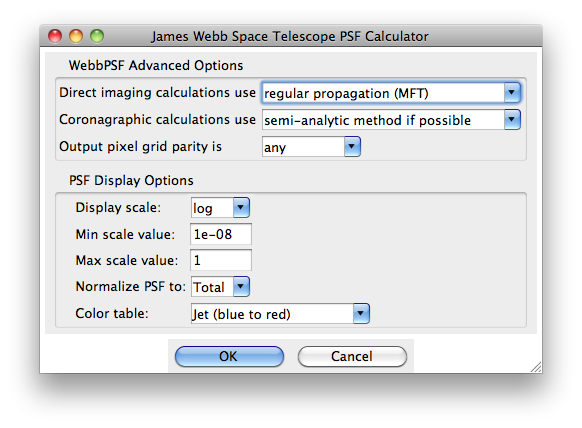
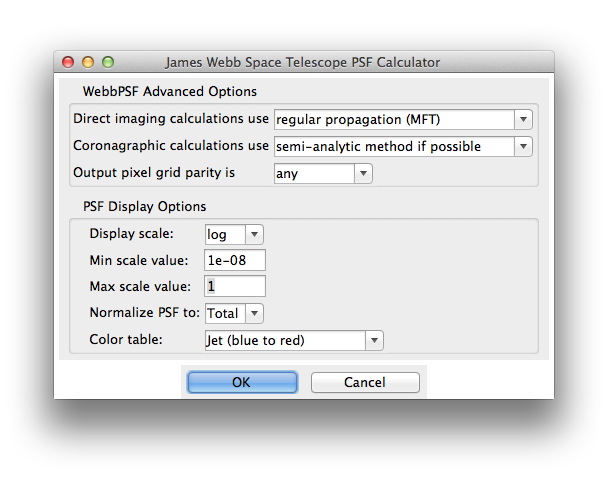
Update screenshots of Tk GUI in docs

Changed region(s): [[0.0619, 0.0304, 0.9588, 0.8808]]

diff --git a/docs/intro.rst b/docs/intro.rst
@@ -1,17 +1,11 @@
-.. JWST-PSFs documentation master file, created by
-   sphinx-quickstart on Mon Nov 29 15:57:01 2010.
-   You can adapt this file completely to your liking, but it should at least
-   contain the root `toctree` directive.
-
-
 Introduction
 ============
 
 
-Conceptually, this simulation code has three layers of abstraction: 
- * A base package for wavefront propagation through generic optical systems (provided by :py:mod:`POPPY <poppy>`).
+Conceptually, this simulation code has three layers of abstraction:
+ * A base package for wavefront propagation through generic optical systems (provided by :py:mod:`POPPY <poppy>`)
  * Models of the JWST instruments implemented on top of that base system (provided by :py:mod:`WebbPSF <webbpsf>`)
- * And an optional :ref:`graphical user interface <gui>`.
+ * An optional :ref:`graphical user interface <gui>`
    
 It is entirely possible (and indeed recommended for scripting) to just use the :py:mod:`WebbPSF <webbpsf>` interface without the GUI, but the
 GUI can provide a quicker method for many simple interactive calculations.
@@ -101,10 +95,12 @@ First, download and install the software (as described in the next page of this 
 
 and you should be able to test drive things using the GUI: 
 
-.. image:: ./fig_webbpsfgui_main.png
+.. figure:: ./fig_gui_main.png
    :scale: 75%
-   :align: center 
-   :alt: WebbPSFGui main window
+   :align: center
+   :alt: The main window of the WebbPSF GUI when first launched.
+
+   The main window of the WebbPSF GUI when first launched.
 
 
 

diff --git a/docs/gui.rst b/docs/gui.rst
@@ -16,15 +16,10 @@ Alternatively, you may start the GUI from an interactive session::
 >>> import webbpsf
 >>> webbpsf.gui()
 
-.. image:: ./fig_webbpsf_gui_tk.png
+.. figure:: ./fig_gui_main.png
    :scale: 75%
    :align: center
-   :alt: WebbPSFGui main window (tk interface)
-
-.. figure:: ./fig_webbpsf_gui_tk.png
-   :scale: 75%
-   :align: center
-   :alt: WebbPSFGui main window (tk interface)
+   :alt: The main window of ``webbpsfgui`` when first launched.
 
    The main window of ``webbpsfgui`` when first launched.
 
